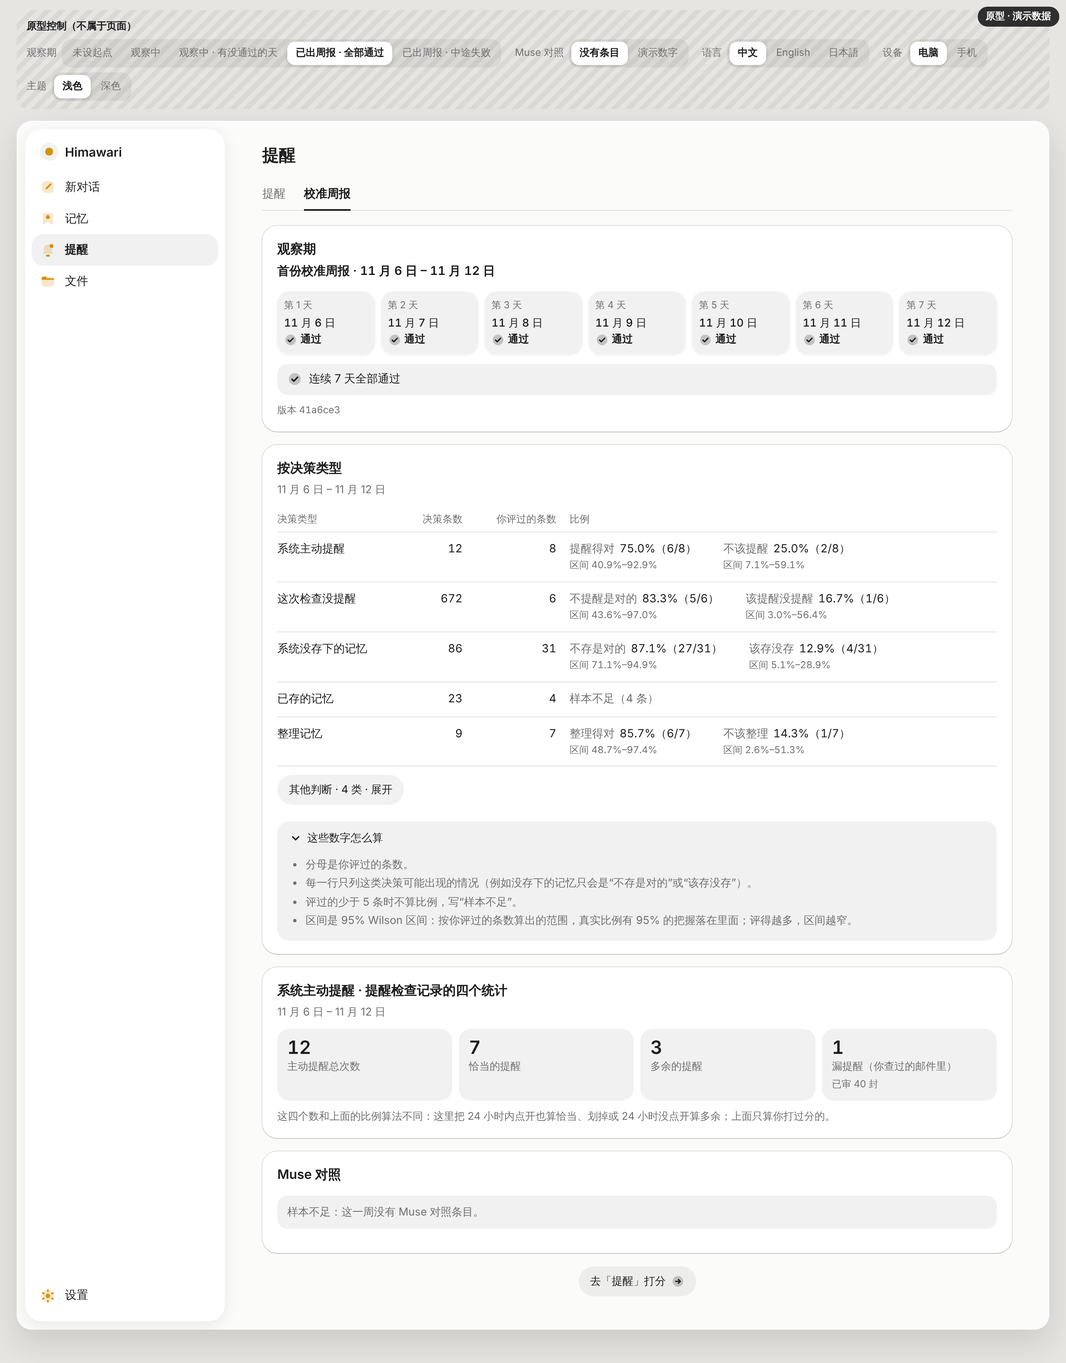
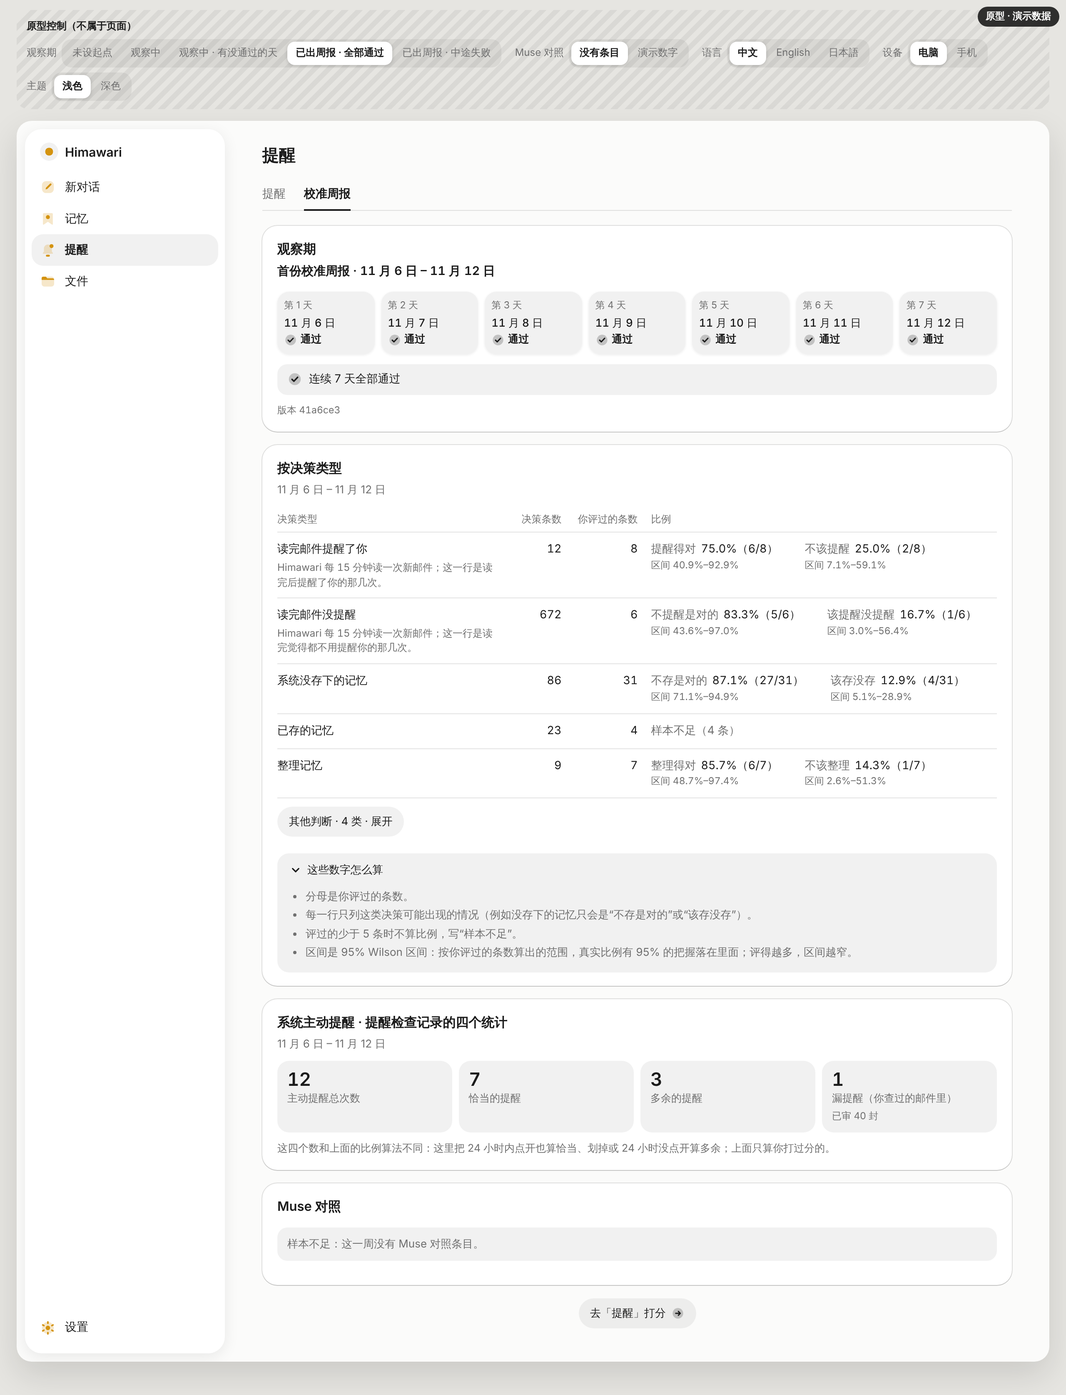
fix(calibration): 两行 Gmail 决策改叫“读完邮件提醒了你 / 读完邮件没提醒”
Andy 看原型后指出“这次检查没提醒”看不出是关于什么的。两行的单位是“一次读邮件”
（Himawari 每 15 分钟读一次新邮件），改为“读完邮件提醒了你 / 读完邮件没提醒”；
“每天打分”的标签（三种语言）同步改名，词表新增第 18 条并把旧叫法列入，周报脚本、
ADR 0155 和原型 v17 同步。

验证：npm run check（29 步通过）；改动波及的网页测试和周报测试 289 条全过；
Runbook 契约来源改动后已对照重封存；文档严格校验仍是此前已有的 10 条。

Layer-0-tests: apps/control-center/test/account-login.unit.test.ts
Layer-0-tests: apps/control-center/test/app-interactions.unit.test.ts
Layer-0-tests: apps/control-center/test/attachment-image.unit.test.ts
Layer-0-tests: apps/control-center/test/authorization-interactions.unit.test.ts
Layer-0-tests: apps/control-center/test/execution-environment.unit.test.ts
Layer-0-tests: apps/control-center/test/file-preview-info.unit.test.ts
Layer-0-tests: apps/control-center/test/file-preview.unit.test.ts
Layer-0-tests: apps/control-center/test/files-library.unit.test.ts
Layer-0-tests: apps/control-center/test/memory-interactions.unit.test.ts
Layer-0-tests: apps/control-center/test/notification-settings.unit.test.ts
Layer-0-tests: apps/control-center/test/proactive-interactions.unit.test.ts
Layer-0-tests: apps/control-center/test/release-walkthrough.unit.test.ts
Layer-0-tests: apps/control-center/test/step-summary.unit.test.ts
Layer-0-tests: apps/control-center/test/thread-interactions.unit.test.ts
Layer-0-tests: apps/control-center/test/thread-sidebar.unit.test.ts
Layer-0-tests: test/integration/calibration-report.test.ts
Fast-mode-checks: 定向测试 + npm run check（29 步通过），云端容器，基于 4ce9c31
Docs: deferred (fast mode)
[…]

diff --git a/docs/assets/control-center/2026-11-03-v17/weekly-report-prototype.html b/docs/assets/control-center/2026-11-03-v17/weekly-report-prototype.html
@@ -91,6 +91,7 @@ th:first-child,td:first-child{padding-left:0}
 td.num,th.num{text-align:right}
 td .iv{display:block;font-size:11.5px;color:var(--mu)}
 td.few{color:var(--mu)}
+.rd{display:block;font-size:12px;line-height:1.45;color:var(--mu);max-width:22em;margin:2px 0 0;font-weight:400}
 .rs{display:flex;flex-wrap:wrap;gap:6px 32px}
 .rs .r{min-width:0}
 .rl{color:var(--mu);margin-right:6px}
@@ -271,7 +272,8 @@ zh:{
  other:n=>`其他判断 · ${n} 类`,expand:"展开",collapse:"收起",
  how:"这些数字怎么算",
  howItems:["分母是你评过的条数。","每一行只列这类决策可能出现的情况（例如没存下的记忆只会是“不存是对的”或“该存没存”）。","评过的少于 5 条时不算比例，写“样本不足”。","区间是 95% Wilson 区间：按你评过的条数算出的范围，真实比例有 95% 的把握落在里面；评得越多，区间越窄。"],
- types:{pushed:"系统主动提醒",skippedMemory:"系统没存下的记忆",keptMemory:"已存的记忆",consolidation:"整理记忆",silent:"这次检查没提醒",pendingMemory:"待你确认的记忆",truncation:"回答时没带上的旧内容",degrade:"记忆搜索没生效",externalRead:"外部程序读取记忆"},
+ typeDesc:{pushed:"Himawari 每 15 分钟读一次新邮件；这一行是读完后提醒了你的那几次。",silent:"Himawari 每 15 分钟读一次新邮件；这一行是读完觉得都不用提醒你的那几次。"},
+ types:{pushed:"读完邮件提醒了你",skippedMemory:"系统没存下的记忆",keptMemory:"已存的记忆",consolidation:"整理记忆",silent:"读完邮件没提醒",pendingMemory:"待你确认的记忆",truncation:"回答时没带上的旧内容",degrade:"记忆搜索没生效",externalRead:"外部程序读取记忆"},
  statTitle:"系统主动提醒 · 提醒检查记录的四个统计",
  m:{spoke:"主动提醒总次数",hits:"恰当的提醒",misfires:"多余的提醒",missed:"漏提醒（你查过的邮件里）",reviewed:n=>`已审 ${n} 封`},
  statNote:"这四个数和上面的比例算法不同：这里把 24 小时内点开也算恰当、划掉或 24 小时没点开算多余；上面只算你打过分的。",
@@ -325,7 +327,8 @@ en:{
  other:n=>`Other decisions · ${n} types`,expand:"Show",collapse:"Hide",
  how:"How these numbers are worked out",
  howItems:["The denominator is the number you rated.","Each row lists only the outcomes possible for that kind of decision (for example, a memory the system chose not to save can only be “Right not to save” or “Should have saved”).","With fewer than 5 rated, no ratio is shown; it says “Too few rated”.","The range is a 95% Wilson interval: worked out from how many you rated, the true ratio falls inside it with 95% confidence. The more you rate, the narrower it gets."],
- types:{pushed:"Proactive reminders",skippedMemory:"Memories the system chose not to save",keptMemory:"Saved memories",consolidation:"Memory tidy-up",silent:"Checks with no reminder",pendingMemory:"Memories awaiting your confirmation",truncation:"Older content left out of an answer",degrade:"Memory search did not work",externalRead:"Memory read by an outside program"},
+ typeDesc:{pushed:"Himawari reads new mail every 15 minutes; these are the reads after which it reminded you.",silent:"Himawari reads new mail every 15 minutes; these are the reads after which nothing needed a reminder."},
+ types:{pushed:"Read mail and reminded you",skippedMemory:"Memories the system chose not to save",keptMemory:"Saved memories",consolidation:"Memory tidy-up",silent:"Read mail, no reminder",pendingMemory:"Memories awaiting your confirmation",truncation:"Older content left out of an answer",degrade:"Memory search did not work",externalRead:"Memory read by an outside program"},
  statTitle:"Proactive reminders · four counts from the reminder check record",
  m:{spoke:"Total proactive reminders",hits:"Appropriate reminders",misfires:"Unneeded reminders",missed:"Reminders it missed (in emails you checked)",reviewed:n=>`${n} reviewed`},
  statNote:"These four numbers are counted differently from the ratios above: here, opening a reminder within 24 hours also counts as appropriate, and dismissing it or not opening it within 24 hours counts as unneeded. The ratios above count only what you rated.",
@@ -379,7 +382,8 @@ ja:{
  other:n=>`その他の判断 · ${n} 種類`,expand:"開く",collapse:"閉じる",
  how:"この数字の出し方",
  howItems:["分母は採点した件数です。","各行には、その種類の判断で起こりうる結果だけを載せます（例：システムが保存しないと判断した記憶は「保存しないのが正しかった」か「保存すべきだった」のどちらかだけ）。","採点が 5 件未満のときは割合を出さず「件数不足」と書きます。","区間は 95% Wilson 区間です。採点した件数から出した範囲で、本当の割合は 95% の確かさでこの中に入ります。採点が多いほど狭くなります。"],
- types:{pushed:"自発的なリマインダー",skippedMemory:"システムが保存しないと判断した記憶",keptMemory:"保存した記憶",consolidation:"記憶の整理",silent:"通知しなかった確認",pendingMemory:"確認待ちの記憶",truncation:"回答に入れなかった古い内容",degrade:"記憶検索が働かなかった",externalRead:"外部プログラムによる記憶の読み取り"},
+ typeDesc:{pushed:"Himawari は 15 分ごとに新着メールを読みます。読んだ後に通知した回です。",silent:"Himawari は 15 分ごとに新着メールを読みます。読んだ後、通知が必要なものがなかった回です。"},
+ types:{pushed:"メールを読んで通知した",skippedMemory:"システムが保存しないと判断した記憶",keptMemory:"保存した記憶",consolidation:"記憶の整理",silent:"メールを読んで通知しなかった",pendingMemory:"確認待ちの記憶",truncation:"回答に入れなかった古い内容",degrade:"記憶検索が働かなかった",externalRead:"外部プログラムによる記憶の読み取り"},
  statTitle:"自発的なリマインダー · リマインダー確認の記録の 4 つの集計",
  m:{spoke:"自発的なリマインダーの総数",hits:"適切なリマインダー",misfires:"余計なリマインダー",missed:"見逃し（確認したメールの中）",reviewed:n=>`${n} 通確認`},
  statNote:"この 4 つの数は上の割合と数え方が違います。ここでは 24 時間以内に開いたものも適切、閉じたものや 24 時間開かなかったものは余計と数えます。上の割合は採点したものだけです。",
@@ -463,13 +467,13 @@ function tableCard(){
  const rows=MAIN.map(x=>[x,0]).concat(ST.otherOpen?OTHER.map(x=>[x,1]):[]);
  if(k==="part"){
   h+=`<p class="sub">${t.scopeIn(fd(d.start))}</p><p class="empty">${t.notFull}</p>`;
-  h+=`<table><thead><tr><th>${t.cols[0]}</th><th class="num">${t.cols[1]}</th><th class="num">${t.cols[2]}</th></tr></thead><tbody>${rows.map(([x,sub])=>`<tr class="${sub?"sub":""}"><td>${t.types[x]}</td><td class="num">${nf(TD.part[x][0])}</td><td class="num">${nf(TD.part[x][1])}</td></tr>`).join("")}<tr class="otherrow"><td colspan="3">${otherBtn()}</td></tr></tbody></table>`;
-  h+=`<div class="tcards">${rows.map(([x])=>`<div class="tc"><h3>${t.types[x]}</h3><div class="m"><span>${t.cols[1]}</span><span>${nf(TD.part[x][0])}</span></div><div class="m"><span>${t.cols[2]}</span><span>${nf(TD.part[x][1])}</span></div></div>`).join("")}${otherBtn()}</div>`;
+  h+=`<table><thead><tr><th>${t.cols[0]}</th><th class="num">${t.cols[1]}</th><th class="num">${t.cols[2]}</th></tr></thead><tbody>${rows.map(([x,sub])=>`<tr class="${sub?"sub":""}"><td>${t.types[x]}${t.typeDesc[x]?`<span class="rd">${t.typeDesc[x]}</span>`:""}</td><td class="num">${nf(TD.part[x][0])}</td><td class="num">${nf(TD.part[x][1])}</td></tr>`).join("")}<tr class="otherrow"><td colspan="3">${otherBtn()}</td></tr></tbody></table>`;
+  h+=`<div class="tcards">${rows.map(([x])=>`<div class="tc"><h3>${t.types[x]}</h3>${t.typeDesc[x]?`<p class="rd">${t.typeDesc[x]}</p>`:""}<div class="m"><span>${t.cols[1]}</span><span>${nf(TD.part[x][0])}</span></div><div class="m"><span>${t.cols[2]}</span><span>${nf(TD.part[x][1])}</span></div></div>`).join("")}${otherBtn()}</div>`;
   h+=howBlock()+`</section>`;return h;
  }
  h+=`<p class="sub">${t.scopeDone(fd(d.start),fd(d.start+6))}</p>`;
- h+=`<table><thead><tr><th>${t.cols[0]}</th><th class="num">${t.cols[1]}</th><th class="num">${t.cols[2]}</th><th>${t.cols[3]}</th></tr></thead><tbody>${rows.map(([x,sub])=>{const r=TD.done[x],rc=ratioCells(x,r);return `<tr class="${sub?"sub":""}"><td>${t.types[x]}</td><td class="num">${nf(r[0])}</td><td class="num">${nf(r[1])}</td>${rc.few?`<td class="few">${rc.few}</td>`:`<td><div class="rs">${rc.vals.map(v=>`<div class="r"><span class="rl">${v.label}</span>${v.main}<span class="iv">${v.iv}</span></div>`).join("")}</div></td>`}</tr>`}).join("")}<tr class="otherrow"><td colspan="4">${otherBtn()}</td></tr></tbody></table>`;
- h+=`<div class="tcards">${rows.map(([x])=>{const r=TD.done[x],rc=ratioCells(x,r);return `<div class="tc"><h3>${t.types[x]}</h3><div class="m"><span>${t.cols[1]}</span><span>${nf(r[0])}</span></div><div class="m"><span>${t.cols[2]}</span><span>${nf(r[1])}</span></div>${rc.few?`<div class="m few"><span>${t.cols[3]}</span><span>${rc.few}</span></div>`:rc.vals.map(v=>`<div class="m"><span>${v.label}</span><span>${v.main}<span class="iv">${v.iv}</span></span></div>`).join("")}</div>`}).join("")}${otherBtn()}</div>`;
+ h+=`<table><thead><tr><th>${t.cols[0]}</th><th class="num">${t.cols[1]}</th><th class="num">${t.cols[2]}</th><th>${t.cols[3]}</th></tr></thead><tbody>${rows.map(([x,sub])=>{const r=TD.done[x],rc=ratioCells(x,r);return `<tr class="${sub?"sub":""}"><td>${t.types[x]}${t.typeDesc[x]?`<span class="rd">${t.typeDesc[x]}</span>`:""}</td><td class="num">${nf(r[0])}</td><td class="num">${nf(r[1])}</td>${rc.few?`<td class="few">${rc.few}</td>`:`<td><div class="rs">${rc.vals.map(v=>`<div class="r"><span class="rl">${v.label}</span>${v.main}<span class="iv">${v.iv}</span></div>`).join("")}</div></td>`}</tr>`}).join("")}<tr class="otherrow"><td colspan="4">${otherBtn()}</td></tr></tbody></table>`;
+ h+=`<div class="tcards">${rows.map(([x])=>{const r=TD.done[x],rc=ratioCells(x,r);return `<div class="tc"><h3>${t.types[x]}</h3>${t.typeDesc[x]?`<p class="rd">${t.typeDesc[x]}</p>`:""}<div class="m"><span>${t.cols[1]}</span><span>${nf(r[0])}</span></div><div class="m"><span>${t.cols[2]}</span><span>${nf(r[1])}</span></div>${rc.few?`<div class="m few"><span>${t.cols[3]}</span><span>${rc.few}</span></div>`:rc.vals.map(v=>`<div class="m"><span>${v.label}</span><span>${v.main}<span class="iv">${v.iv}</span></span></div>`).join("")}</div>`}).join("")}${otherBtn()}</div>`;
  h+=howBlock()+`</section>`;return h;
 }
 function otherBtn(){const t=T();return `<button type="button" class="lk" data-act="other" aria-expanded="${ST.otherOpen}">${t.other(OTHER.length)} · ${ST.otherOpen?t.collapse:t.expand}</button>`}

diff --git a/test/integration/calibration-report.test.ts b/test/integration/calibration-report.test.ts
@@ -186,9 +186,9 @@ describe("[P0-7] calibration report", () => {
     expect(silent?.rates.unneeded).toBeNull();
     const text = output.text();
     expect(text).toContain(
-      "| 系统主动提醒 | 11 | 10 | 提醒得对 60.0%（6/10，95% 区间 31.3%–83.2%）；不该提醒 40.0%（4/10，95% 区间 16.8%–68.7%） |",
+      "| 读完邮件提醒了你 | 11 | 10 | 提醒得对 60.0%（6/10，95% 区间 31.3%–83.2%）；不该提醒 40.0%（4/10，95% 区间 16.8%–68.7%） |",
     );
-    expect(text).toContain("| 这次检查没提醒 | 3 | 3 | 样本不足（3 条） |");
+    expect(text).toContain("| 读完邮件没提醒 | 3 | 3 | 样本不足（3 条） |");
     expect(text).toContain("| 整理记忆 | 3 | 3 | 样本不足（3 条） |");
     expect(text).toContain("| 记忆搜索没生效 | 2 | 0 | 样本不足（0 条） |");
     expect(text).not.toContain("不适用");
@@ -424,7 +424,7 @@ describe("[P0-7] calibration report", () => {
       ],
       { cwd: root },
     );
-    expect(stdout).toContain("| 系统主动提醒 | 5 | 5 | 提醒得对 100.0%（5/5");
+    expect(stdout).toContain("| 读完邮件提醒了你 | 5 | 5 | 提醒得对 100.0%（5/5");
     const [line] = (await readFile(history, "utf8")).trim().split("\n");
     expect(JSON.parse(line as string)).toMatchObject({
       schema: "himawari-calibration-week.v2",

diff --git a/apps/control-center/src/i18n/resources/ja.ts b/apps/control-center/src/i18n/resources/ja.ts
@@ -980,8 +980,8 @@ export const messages = {
   "dailyReview.count": "今日 {count} 件",
   "dailyReview.countLeft": "今日 {count} 件、ほかに {left} 件は選ばれていません",
   "dailyReview.note": "選ばれなかったものは明日また出ることがあり、7 日たつと出なくなります。",
-  "dailyReview.tag.pushed": "自発的なリマインド",
-  "dailyReview.tag.silent": "リマインドしなかった確認",
+  "dailyReview.tag.pushed": "メールを読んで通知した",
+  "dailyReview.tag.silent": "メールを読んで通知しなかった",
   "dailyReview.tag.mail": "リマインドしなかったメール",
   "dailyReview.tag.skippedMemory": "保存しなかった記憶",
   "dailyReview.tag.keptMemory": "保存した記憶",

diff --git a/apps/control-center/src/i18n/resources/zh-CN.ts b/apps/control-center/src/i18n/resources/zh-CN.ts
@@ -924,8 +924,8 @@ export const messages = {
   "dailyReview.count": "今天 {count} 条",
   "dailyReview.countLeft": "今天 {count} 条，另有 {left} 条没抽到",
   "dailyReview.note": "没抽到的明天可能再出现，7 天后不再出现。",
-  "dailyReview.tag.pushed": "系统主动提醒",
-  "dailyReview.tag.silent": "这次检查没提醒",
+  "dailyReview.tag.pushed": "读完邮件提醒了你",
+  "dailyReview.tag.silent": "读完邮件没提醒",
   "dailyReview.tag.mail": "没提醒的邮件",
   "dailyReview.tag.skippedMemory": "系统没存下的记忆",
   "dailyReview.tag.keptMemory": "已存的记忆",

diff --git a/apps/control-center/src/i18n/resources/en.ts b/apps/control-center/src/i18n/resources/en.ts
@@ -979,8 +979,8 @@ export const messages = {
   "dailyReview.countLeft":
     "{count, plural, one {# item} other {# items}} today, {left} more not picked",
   "dailyReview.note": "Items not picked may show up tomorrow, and drop off after 7 days.",
-  "dailyReview.tag.pushed": "Proactive reminder",
-  "dailyReview.tag.silent": "Check with no reminder",
+  "dailyReview.tag.pushed": "Read mail and reminded you",
+  "dailyReview.tag.silent": "Read mail, no reminder",
   "dailyReview.tag.mail": "Email not reminded",
   "dailyReview.tag.skippedMemory": "Memory the system skipped",
   "dailyReview.tag.keptMemory": "Saved memory",

diff --git a/packages/calibration/src/index.ts b/packages/calibration/src/index.ts
@@ -46,8 +46,8 @@ const APPLICABLE: Readonly<Record<CalibrationGroup, readonly CalibrationRating[]
 };
 
 const GROUP_LABELS: Readonly<Record<CalibrationGroup, string>> = {
-  proactive_pushed: "系统主动提醒",
-  proactive_silent: "这次检查没提醒",
+  proactive_pushed: "读完邮件提醒了你",
+  proactive_silent: "读完邮件没提醒",
   memory_skipped: "系统没存下的记忆",
   memory_kept: "已存的记忆",
   consolidation: "整理记忆",

diff --git a/docs/glossary.md b/docs/glossary.md
@@ -47,8 +47,9 @@ date: "2026-11-02"
 | 13 | `拆成一条条` `Split into items` `項目に分ける` | `整理成一条条` | 记忆页里把一段话拆成多条记忆的按钮 | 全部 |
 | 14 | `Muse 对照` | | 与 Muse 的对照条目，没有旧叫法，只登记在这里 | 全部 |
 | 15 | `校准周报` | | 每周一页，按决策类型统计每类决策做对和做错的比例，并与 Muse 逐封邮件对照，没有旧叫法，只登记在这里 | 全部 |
-| 16 | `提醒得对` `不该提醒` `不提醒是对的` `该提醒没提醒` `不存是对的` `该存没存` `存对了` `不该存` `整理得对` `不该整理` `Right to remind` `Shouldn’t have reminded` `Right to stay silent` `Should have reminded` `Right not to save` `Should have saved` `Saved correctly` `Shouldn’t have saved` `Right tidy-up` `Shouldn’t have tidied` `通知は正しかった` `通知すべきではなかった` `通知しないのが正しかった` `通知すべきだった` `保存しないのが正しかった` `保存すべきだった` `正しく保存した` `保存すべきではなかった` `整理は正しかった` `整理すべきではなかった` | `做对了的比例` `不该做的比例` `该做没做的比例` | 校准周报里每一类决策用自己的说法写比例：系统主动提醒是“提醒得对 / 不该提醒”，这次检查没提醒是“不提醒是对的 / 该提醒没提醒”，系统没存下的记忆是“不存是对的 / 该存没存”，已存的记忆是“存对了 / 不该存”，整理记忆是“整理得对 / 不该整理”。分母都是你评过的条数，评过的少于 5 条写“样本不足” | 全部 |
+| 16 | `提醒得对` `不该提醒` `不提醒是对的` `该提醒没提醒` `不存是对的` `该存没存` `存对了` `不该存` `整理得对` `不该整理` `Right to remind` `Shouldn’t have reminded` `Right to stay silent` `Should have reminded` `Right not to save` `Should have saved` `Saved correctly` `Shouldn’t have saved` `Right tidy-up` `Shouldn’t have tidied` `通知は正しかった` `通知すべきではなかった` `通知しないのが正しかった` `通知すべきだった` `保存しないのが正しかった` `保存すべきだった` `正しく保存した` `保存すべきではなかった` `整理は正しかった` `整理すべきではなかった` | `做对了的比例` `不该做的比例` `该做没做的比例` | 校准周报里每一类决策用自己的说法写比例：读完邮件提醒了你是“提醒得对 / 不该提醒”，读完邮件没提醒是“不提醒是对的 / 该提醒没提醒”，系统没存下的记忆是“不存是对的 / 该存没存”，已存的记忆是“存对了 / 不该存”，整理记忆是“整理得对 / 不该整理”。分母都是你评过的条数，评过的少于 5 条写“样本不足” | 全部 |
 | 17 | `观察期` `数据起点` `Observation period` `Data start day` `観察期間` `データの起点` | | 数据起点是你在校准周报里选的那一天，选定后不能改；观察期是从这天起的 7 天，Himawari 每天检查决策记录有没有正常写入 | 全部 |
+| 18 | `读完邮件提醒了你` `读完邮件没提醒` `Read mail and reminded you` `Read mail, no reminder` `メールを読んで通知した` `メールを読んで通知しなかった` | `这次检查没提醒` `Check with no reminder` `リマインドしなかった確認` | Himawari 每 15 分钟读一次新邮件；读完后提醒了你的那几次，和读完觉得都不用提醒的那几次。用在每天打分的标签和校准周报的行名上，单位是“一次读邮件”，不是一封邮件 | 全部 |
 
 [↑ 回到阅读导航](#contents)
 

diff --git a/docs/adr/0155-decision-record-observation-and-weekly-report-page.md b/docs/adr/0155-decision-record-observation-and-weekly-report-page.md
@@ -66,13 +66,13 @@ date: "2026-11-03"
 
    | 行 | 比例 |
    | --- | --- |
-   | 系统主动提醒（提醒了你） | 提醒得对 · 不该提醒 |
-   | 这次检查没提醒 | 不提醒是对的 · 该提醒没提醒 |
+   | 读完邮件提醒了你 | 提醒得对 · 不该提醒 |
+   | 读完邮件没提醒 | 不提醒是对的 · 该提醒没提醒 |
    | 系统没存下的记忆 | 不存是对的 · 该存没存 |
    | 已存的记忆 | 存对了 · 不该存 |
    | 整理记忆 | 整理得对 · 不该整理 |
 
-   其余类型折叠。“系统主动提醒”拆成两行，因为提醒了和没提醒是两种决定，合在一起时“提醒得对”会把“不提醒是对的”也算进去。比例 = 这种情况的条数 ÷ 你评过的条数。历史记录格式升为 `himawari-calibration-week.v2`（以前没有生产数据，不需要迁移旧记录）。
+   其余类型折叠。Gmail 主动检查拆成两行，因为提醒了和没提醒是两种决定，合在一起时“提醒得对”会把“不提醒是对的”也算进去。这两行的单位是“一次读邮件”（Himawari 每 15 分钟读一次新邮件），Andy 看原型后指出原来的“这次检查没提醒”看不出是关于什么的，改为“读完邮件提醒了你 / 读完邮件没提醒”，“每天打分”的标签同步改名。比例 = 这种情况的条数 ÷ 你评过的条数。历史记录格式升为 `himawari-calibration-week.v2`（以前没有生产数据，不需要迁移旧记录）。
 7. **网页读取接口**：`proactive.weekly.read` 返回观察期卡片（起点、最早可选日、第几天、7 个格子和每格的检查明细、连续通过天数、是否已验收）和校准周报（默认是观察窗口；窗口没结束时 `ratesWithheld` 为真，不返回任何比例）。
 8. **服务版本**：上线打包时把提交号写进 `agent-service` 包的 `build-info.json`（与网页的版本号同一来源 `apps/control-center/build-info.mjs`），服务启动时读取，读不到记为 `development`。版本号只写进数据库和网页，不进入发给模型的内容。
 

diff --git a/docs/runbooks/decision-record-observation-runbook.md b/docs/runbooks/decision-record-observation-runbook.md
@@ -2,7 +2,7 @@
 status: active
 document_type: runbook
 execution_risk: critical
-contract_sha256: "sha256:079178ab9c50a9161d9e666efbf150b8228889c1c8a90e59316c54e5eabb3e74"
+contract_sha256: "sha256:87c75347f32b8bfe6915640481feb693a1e009a940e75d016ab46eecc6703695"
 supersedes: ""
 superseded_by: ""
 date: "2026-11-03"
